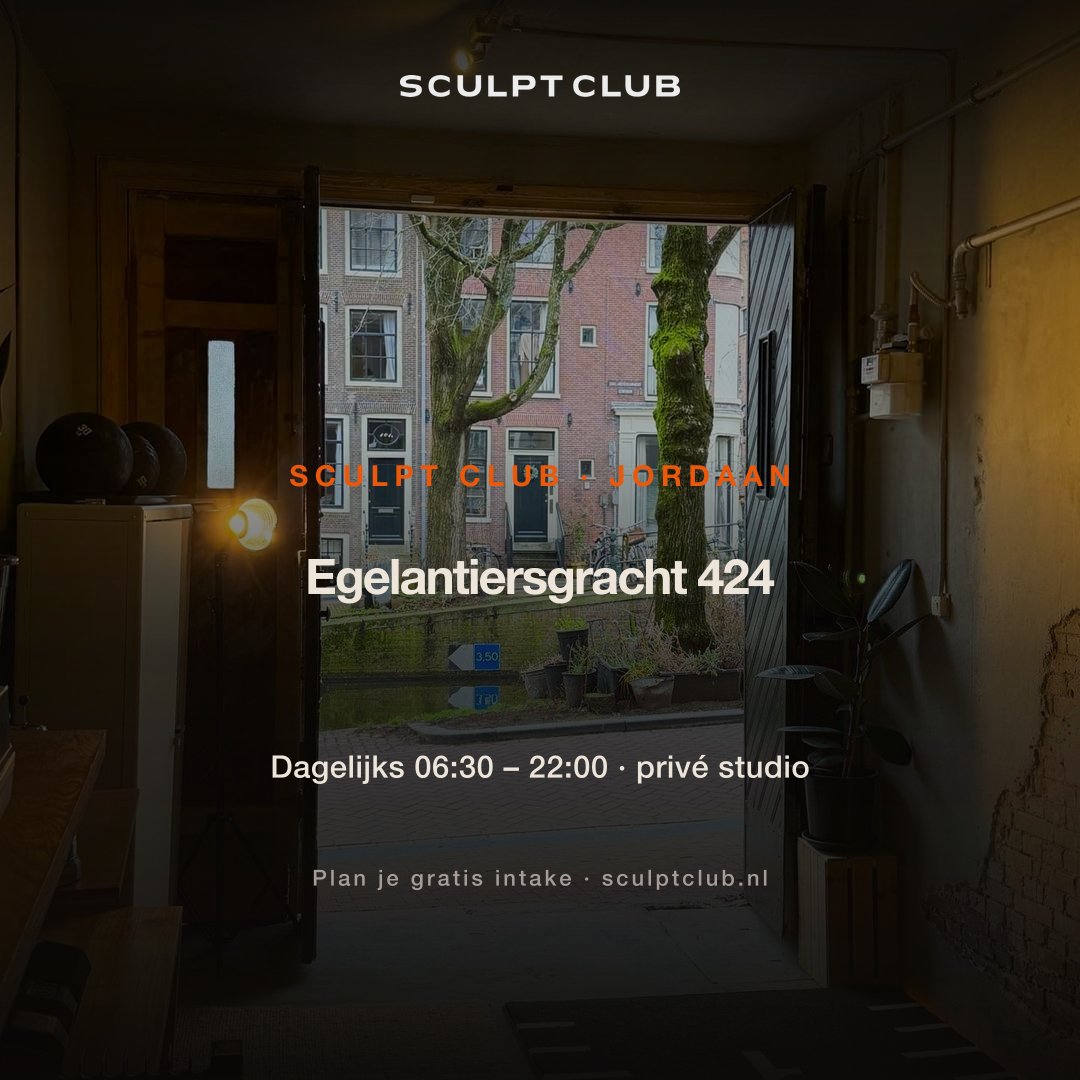
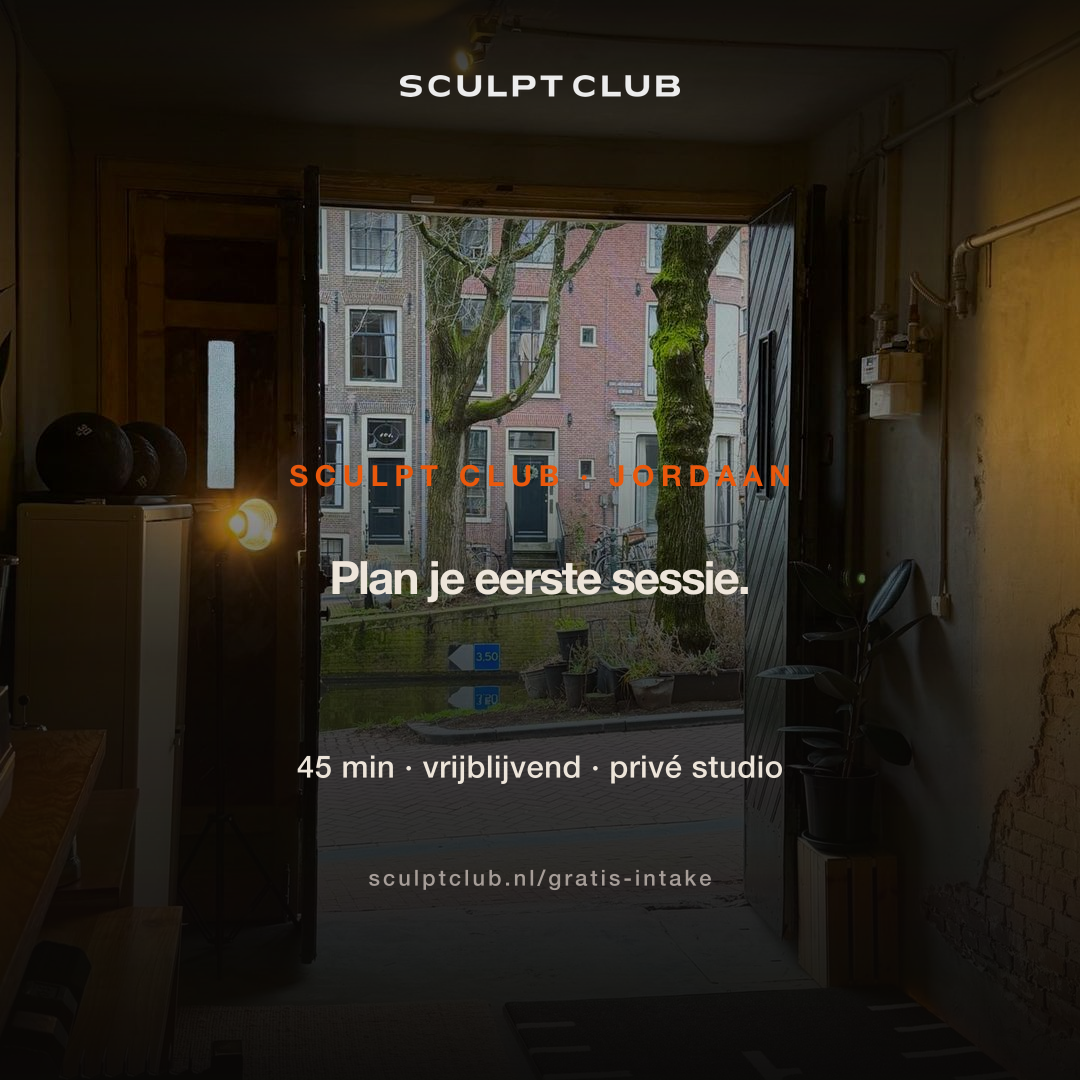
refactor(intake-pitch): final pass — slide 2 + slide 3 + TT title hook
Operator audit "do what's best, don't be biased" — three honest fixes:

1. SLIDE 2 hero: "Vind jouw trainer." → "Voel of het klikt."
   - Klikken = native Dutch chemistry idiom (only-Dutch language pattern)
   - Trainer-match is fundamentally a person-chemistry decision; this is
     literally the word native Dutch speakers use for it
   - Beats Vind/Probeer/Test variants by: addressing the objection
     emotionally (low-stakes) instead of transactionally; pulling feeling
     instead of action; using boutique-intimate register Equinox/Barry's
     would write

2. SLIDE 3 hero: "Egelantiersgracht 424" → "Plan je eerste sessie."
   - Was brand anchor without CTA energy — visitor hits last slide with
     no action prompt. Carousel close should pull a tap.
   - Address now implicit (canal-door photo + SCULPT CLUB · JORDAAN
     eyebrow); hero gets the action prompt.
   - USP refreshed: "45 min · vrijblijvend · privé studio" (info-rich
     supporting copy under the CTA hero)
   - CTA simplified to just the URL — hero already carries the verb

3. TIKTOK title: descriptive list → curiosity hook
   - Was: "Personal Training in de Jordaan · privé studio · 1-op-1"
     (descriptive, scrollable, no pull)
   - Now: "Acht trainers, één privé studio aan de Egelantiersgracht."
     (specific-number-curiosity "wait, only 8?", premium scarcity-feel,
     address-anchored for location intent)
   - Description body + hashtags unchanged (already solid)
[…]

Changed region(s): [[0.2444, 0.7028, 0.7639, 0.7333], [0.275, 0.5194, 0.7333, 0.5806], [0.275, 0.7944, 0.7028, 0.825]]

diff --git a/public/social/intake-pitch-001/index.html b/public/social/intake-pitch-001/index.html
@@ -370,8 +370,11 @@
 // — informational + matches the URL slug, not shouty.
 const COPY = {
   tiktok: {
-    title: "Personal Training in de Jordaan · privé studio · 1-op-1",
-    description: "Een eerste sessie met je personal trainer in onze privé studio aan de Egelantiersgracht.\n\n45 minuten · vrijblijvend · 8 trainers · 5.0 ★ Google.\n\nPlan je gratis intake → sculptclub.nl/gratis-intake",
+    // v3 title (2026-05-18) — curiosity hook beats descriptive list. The
+    // specific number "acht" creates "wait, only 8?" scarcity-pull. Old
+    // title was scrollable; this prompts pause-and-read on FitTok feed.
+    title: "Acht trainers, één privé studio aan de Egelantiersgracht.",
+    description: "Een eerste sessie 1-op-1 met je personal trainer in onze privé studio aan de Egelantiersgracht.\n\n45 minuten · vrijblijvend · 8 trainers · 5.0 ★ Google.\n\nPlan je gratis intake → sculptclub.nl/gratis-intake",
     hashtags: "#personaltrainingamsterdam #amsterdamgym #jordaan #pt #fitamsterdam"
   },
   instagram: {
@@ -430,8 +433,8 @@ function renderCopySection(platform) {
 // Slide names match the keys in scripts/build-tiktok-post.mjs POSTS["intake-pitch-001"].
 const slidesData = [
   { name: "main-offer",  label: "1", title: "Privé · 1-op-1 · 45 min" },
-  { name: "no-pressure", label: "2", title: "Vind jouw trainer · 8 trainers" },
-  { name: "location",    label: "3", title: "Egelantiersgracht 424 · Jordaan" }
+  { name: "no-pressure", label: "2", title: "Voel of het klikt · 8 trainers" },
+  { name: "location",    label: "3", title: "Plan je eerste sessie · /gratis-intake" }
 ];
 
 function switchPlatform(platform) {
